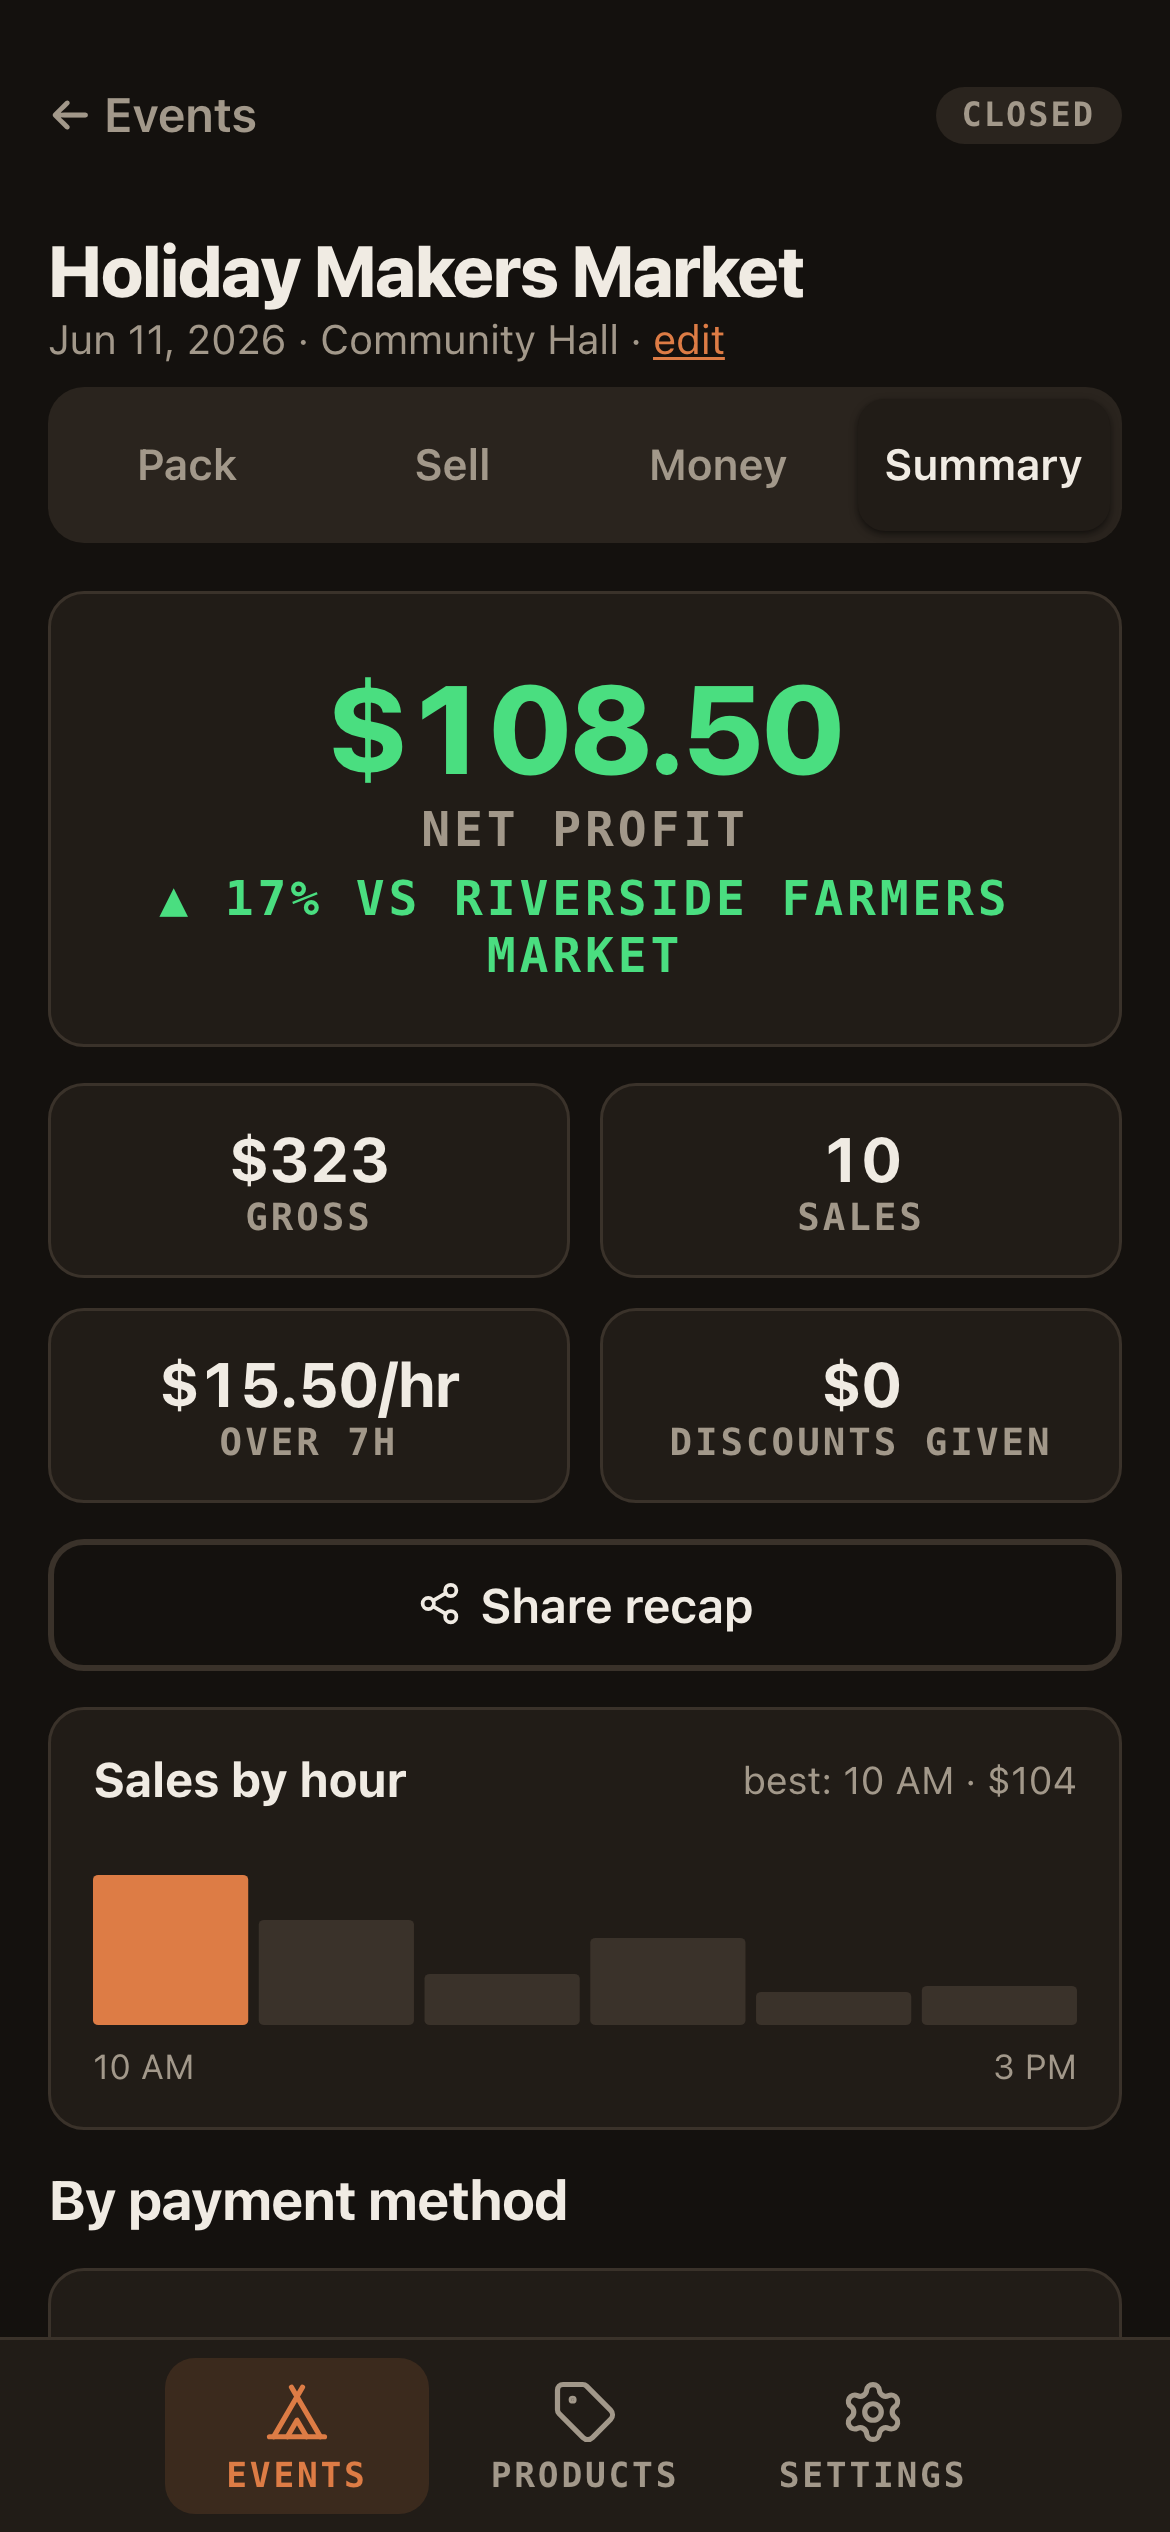
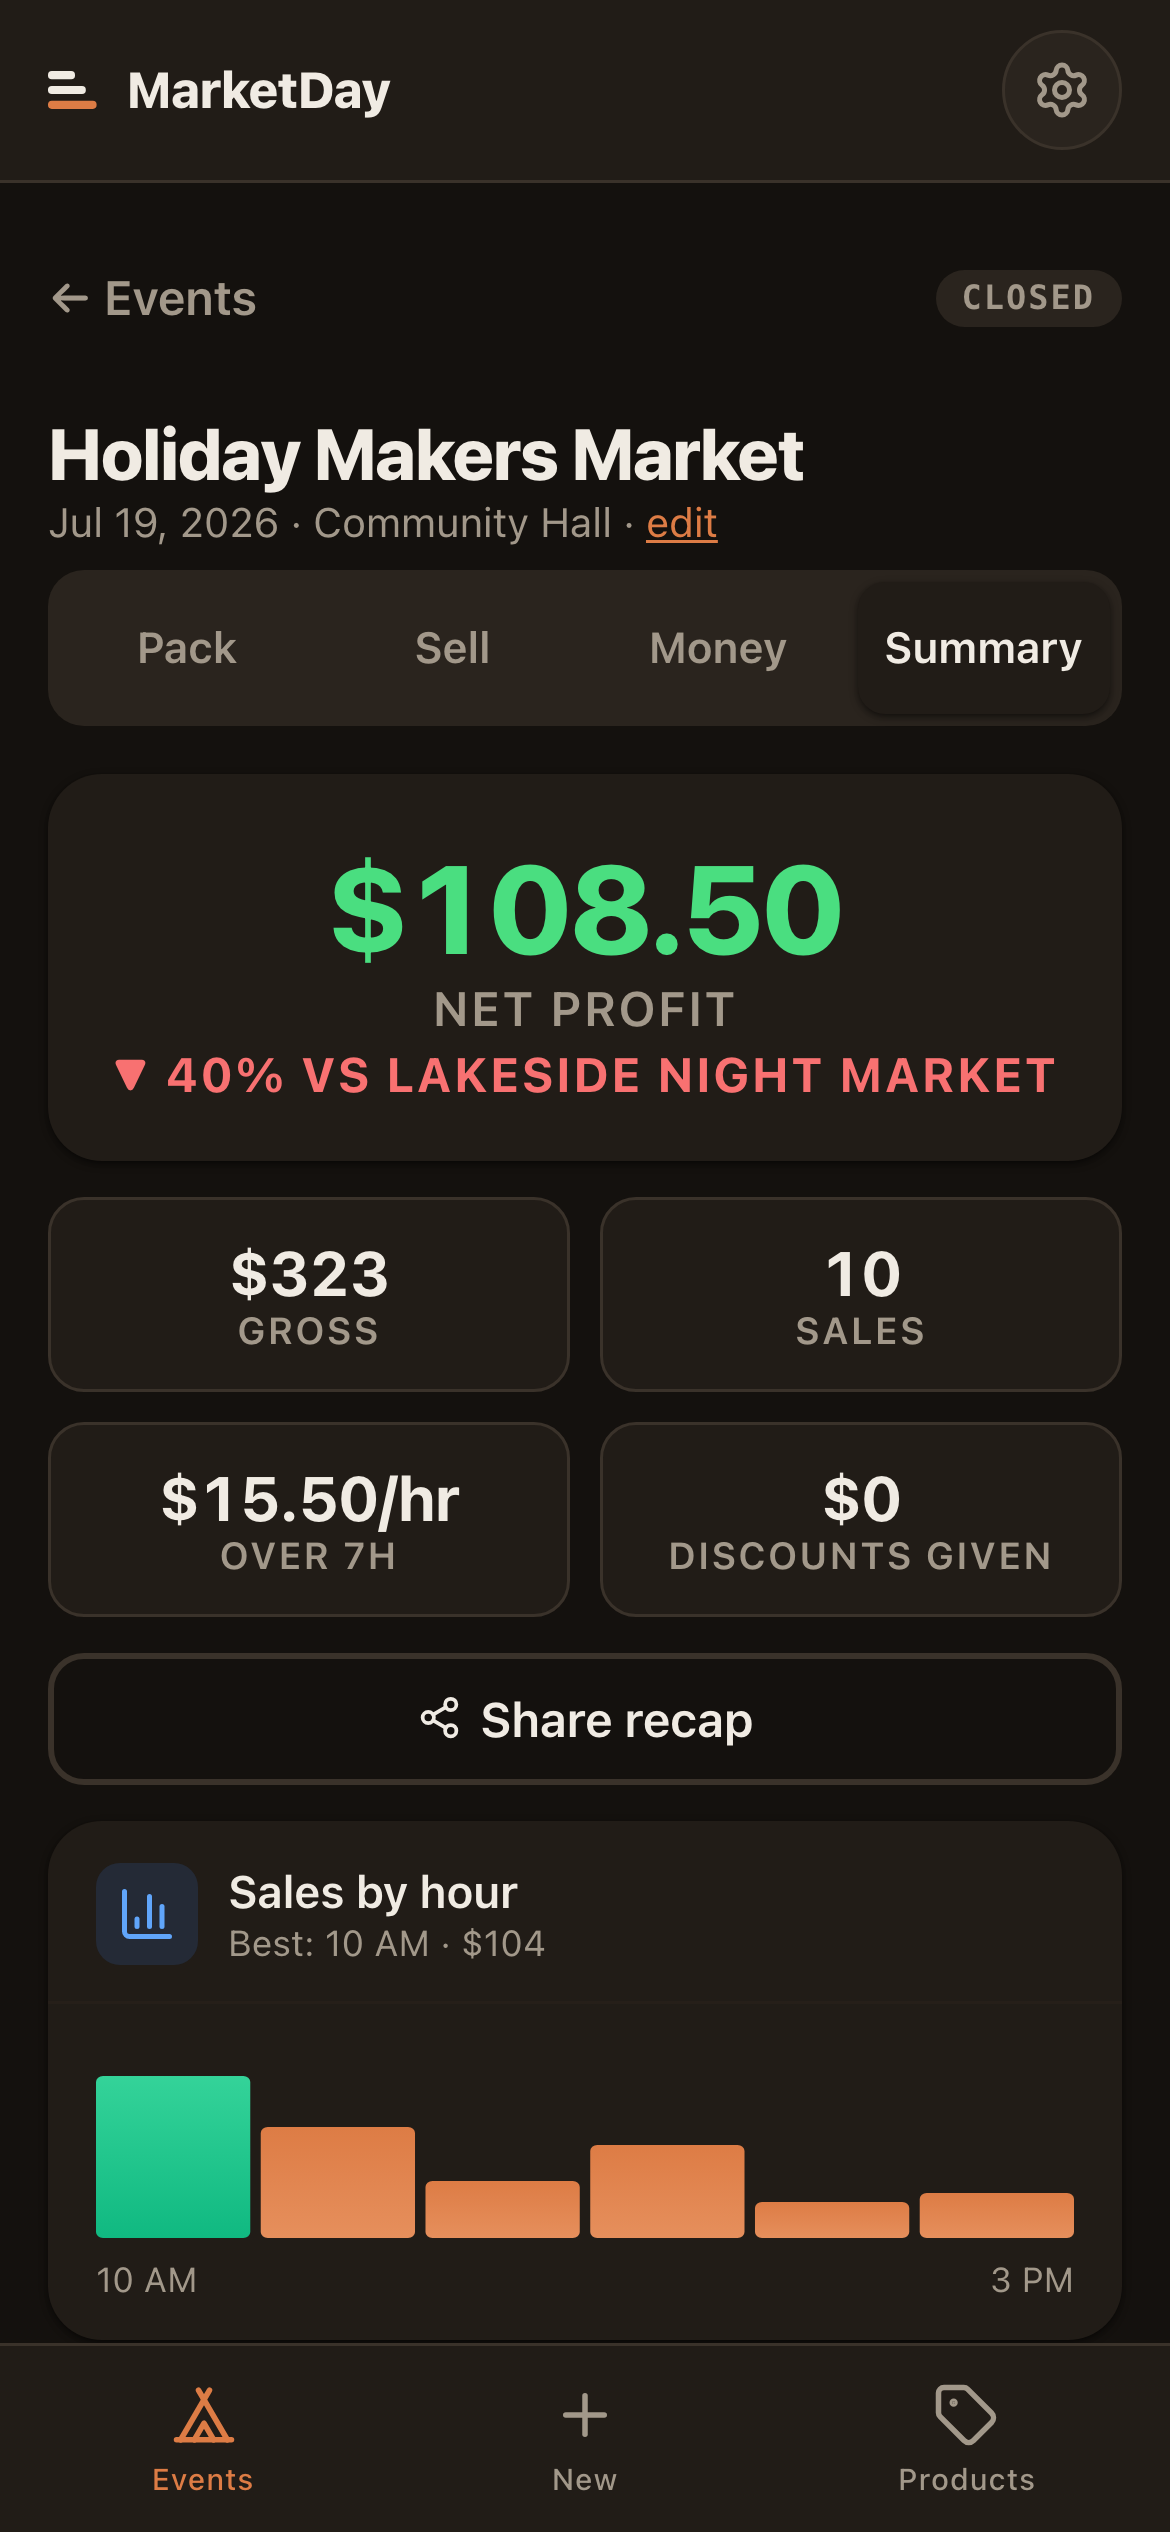
site: refresh app demo screenshots + add BenchStock/MakerBooks device trios
- Recapture MarginPrint (queue, calculator result, stats) and MarketDay
  (pack, sell, summary) from the redesigned apps + refreshed demo data;
  swap the stale AI-analysis shot for the redesigned Stats screen.
- Add phone-mockup device trios to the BenchStock and MakerBooks pages
  (dashboard / materials / plan a run · dashboard / schedule C / transactions),
  captured in dark theme with the demo pill hidden.
- Hero: give the "About the maker" CTA a white background.
- Route: alias /makerbooks -> /maker-books (the app's own spelling and
  subdomain) so it no longer dead-ends at the studio landing.
- Drop the now-unreferenced ai-analysis.png / calculator.png.

diff --git a/src/pages/MakerBooksPage.jsx b/src/pages/MakerBooksPage.jsx
@@ -60,6 +60,25 @@ export default function MakerBooksPage() {
             </a>
           </div>
         </div>
+
+        {/* Device trio — real screenshots */}
+        <div className="relative mx-auto mt-16 flex max-w-7xl flex-wrap items-end justify-center gap-6 lg:gap-10">
+          {[
+            { src: '/screenshots/makerbooks-dashboard.png',    label: 'Dashboard',    note: 'Profit, tax set-aside, trends' },
+            { src: '/screenshots/makerbooks-schedulec.png',    label: 'Schedule C',   note: 'Organized for your accountant' },
+            { src: '/screenshots/makerbooks-transactions.png', label: 'Transactions', note: 'Income & expenses, categorized' },
+          ].map((s, i) => (
+            <figure key={s.src} className={`flex flex-col items-center ${i === 1 ? 'lg:-translate-y-5' : ''}`}>
+              <div className="rounded-[28px] border border-bone/15 bg-[#0d0d10] p-2 shadow-[0_30px_60px_-24px_rgba(0,0,0,0.7)]">
+                <img src={s.src} alt={`MakerBooks — ${s.label}`} loading="lazy" className="block w-[180px] rounded-[22px] sm:w-[210px]" />
+              </div>
+              <figcaption className="mt-4 text-center">
+                <div className="font-mono text-[11px] uppercase tracking-wider text-bone">{s.label}</div>
+                <div className="mt-1 text-[12px] text-bone/50">{s.note}</div>
+              </figcaption>
+            </figure>
+          ))}
+        </div>
       </section>
 
       <section className="relative border-t border-ink/10 bg-bone px-8 py-24 lg:py-32">

diff --git a/src/pages/BenchstockPage.jsx b/src/pages/BenchstockPage.jsx
@@ -61,6 +61,25 @@ export default function BenchstockPage() {
             </a>
           </div>
         </div>
+
+        {/* Device trio — real screenshots */}
+        <div className="relative mx-auto mt-16 flex max-w-7xl flex-wrap items-end justify-center gap-6 lg:gap-10">
+          {[
+            { src: '/screenshots/benchstock-dashboard.png', label: 'Dashboard',  note: 'Inventory value + best margins' },
+            { src: '/screenshots/benchstock-materials.png', label: 'Materials',   note: 'Cost, stock, low-stock alerts' },
+            { src: '/screenshots/benchstock-plan.png',      label: 'Plan a run',  note: 'A supplier-grouped shopping list' },
+          ].map((s, i) => (
+            <figure key={s.src} className={`flex flex-col items-center ${i === 1 ? 'lg:-translate-y-5' : ''}`}>
+              <div className="rounded-[28px] border border-bone/15 bg-[#0d0d10] p-2 shadow-[0_30px_60px_-24px_rgba(0,0,0,0.7)]">
+                <img src={s.src} alt={`BenchStock — ${s.label}`} loading="lazy" className="block w-[180px] rounded-[22px] sm:w-[210px]" />
+              </div>
+              <figcaption className="mt-4 text-center">
+                <div className="font-mono text-[11px] uppercase tracking-wider text-bone">{s.label}</div>
+                <div className="mt-1 text-[12px] text-bone/50">{s.note}</div>
+              </figcaption>
+            </figure>
+          ))}
+        </div>
       </section>
 
       {/* What it does */}

diff --git a/src/components/sections/MarginPrintIntro.jsx b/src/components/sections/MarginPrintIntro.jsx
@@ -4,9 +4,9 @@
 // (captured to /public/screenshots/). The §01–§04 sections below are
 // MarginPrint's chapters.
 const SHOTS = [
-  { src: '/screenshots/queue.png',             label: 'The queue',   note: "What's printing, queued, owed" },
-  { src: '/screenshots/calculator-result.png', label: 'True cost',   note: 'Profit, margin, full breakdown' },
-  { src: '/screenshots/ai-analysis.png',       label: 'AI analysis', note: 'Pricing advice from Claude' },
+  { src: '/screenshots/queue.png',             label: 'The queue',  note: "What's printing, queued, owed" },
+  { src: '/screenshots/calculator-result.png', label: 'True cost',  note: 'Profit, margin, full breakdown' },
+  { src: '/screenshots/stats.png',             label: 'Your stats', note: 'Revenue, profit, top sellers' },
 ]
 
 export default function MarginPrintIntro() {

diff --git a/src/components/Hero.jsx b/src/components/Hero.jsx
@@ -69,7 +69,7 @@ export default function Hero() {
             </a>
             <a
               href="#about"
-              className="group inline-flex items-center gap-2.5 border border-ink/25 px-6 py-3.5 font-mono text-[12px] uppercase tracking-wider text-ink transition-colors hover:border-copper hover:text-copper"
+              className="group inline-flex items-center gap-2.5 border border-ink/25 bg-white px-6 py-3.5 font-mono text-[12px] uppercase tracking-wider text-ink shadow-sm transition-colors hover:border-copper hover:text-copper"
             >
               About the maker
               <span aria-hidden className="transition-transform group-hover:translate-x-0.5">→</span>

diff --git a/src/App.jsx b/src/App.jsx
@@ -24,6 +24,8 @@ export default function App() {
           <Route path="/marketday" element={<MarketDayPage />} />
           <Route path="/benchstock" element={<BenchstockPage />} />
           <Route path="/maker-books" element={<MakerBooksPage />} />
+          {/* Alias: the app's own spelling / subdomain is "makerbooks" (no hyphen). */}
+          <Route path="/makerbooks" element={<Navigate to="/maker-books" replace />} />
           {/* Unknown paths fall back to the studio landing. */}
           <Route path="*" element={<Navigate to="/" replace />} />
         </Routes>
